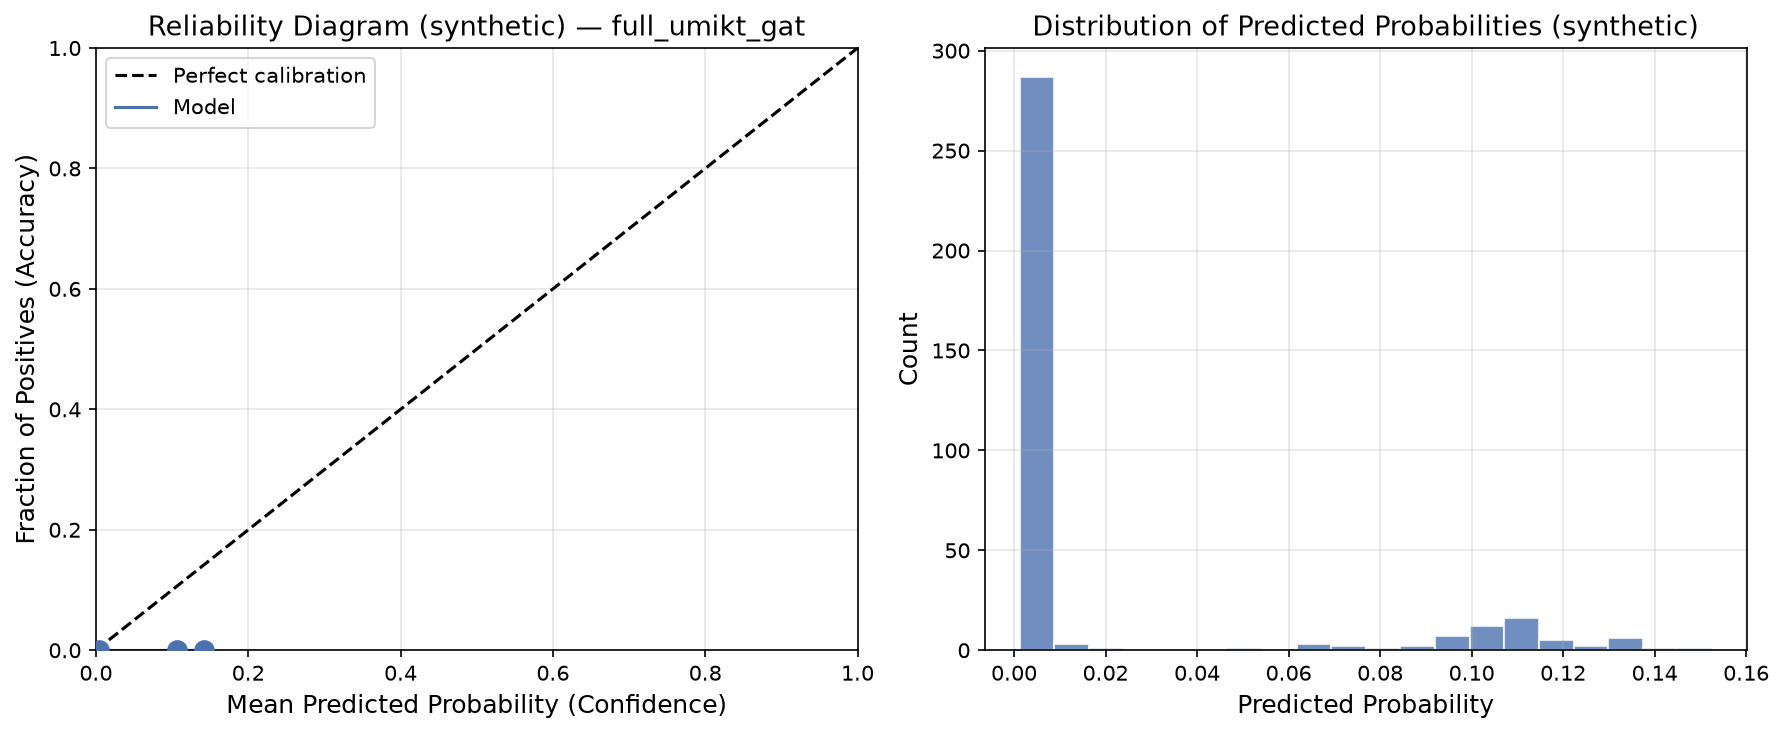
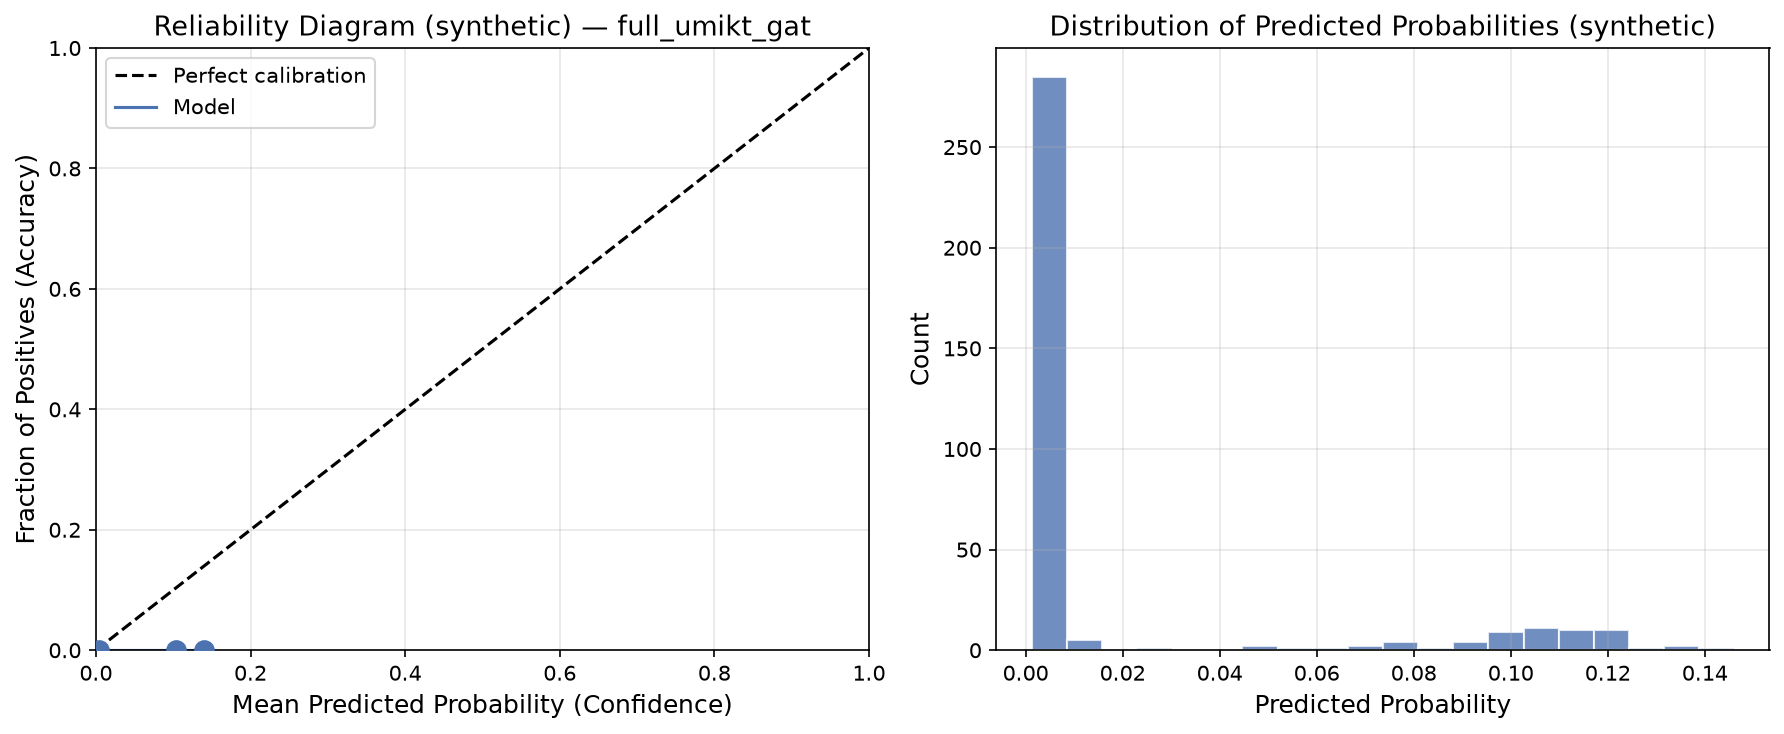
Update full 50-epoch ablation and baseline results

diff --git a/experiments/results/RESULTS_SUMMARY.md b/experiments/results/RESULTS_SUMMARY.md
@@ -16,11 +16,11 @@ directly to a row in `experiments/results/ablation_results.csv`.
 
 | Model | Accuracy | AUC | RMSE |
 |---|---|---|---|
-| Mastery-Only Baseline | 1.0000 | N/A | 0.0413 |
-| +Temporal (GRU) | 1.0000 | N/A | 0.0404 |
-| Full UMiKT-GAT | 1.0000 | N/A | 0.0452 |
+| Mastery-Only Baseline | 1.0000 | N/A | 0.0402 |
+| +Temporal (GRU) | 1.0000 | N/A | 0.0398 |
+| Full UMiKT-GAT | 1.0000 | N/A | 0.0436 |
 | BKT Baseline | 0.0180 | 0.9696 | 0.8799 |
-| DKT Baseline | 0.9987 | 0.9783 | 0.0868 |
+| DKT Baseline | 0.9987 | 0.9753 | 0.0920 |
 
 **Hedged finding:** On the synthetic dataset, we observe [improvement / no improvement /
 inconclusive comparison] across ablation variants. Because the data is synthetic and the
@@ -44,7 +44,7 @@ text responses, which has not been evaluated at scale in this codebase.
 
 | Variant | ECE | Brier Score |
 |---|---|---|
-| Full UMiKT-GAT | 0.0207 | 0.0020 |
+| Full UMiKT-GAT | 0.0200 | 0.0019 |
 
 **Hedged finding:** ECE and Brier score are computed on synthetic data. MC-Dropout variance
 provides a reasonable proxy for epistemic uncertainty (data sparsity per concept) but is
